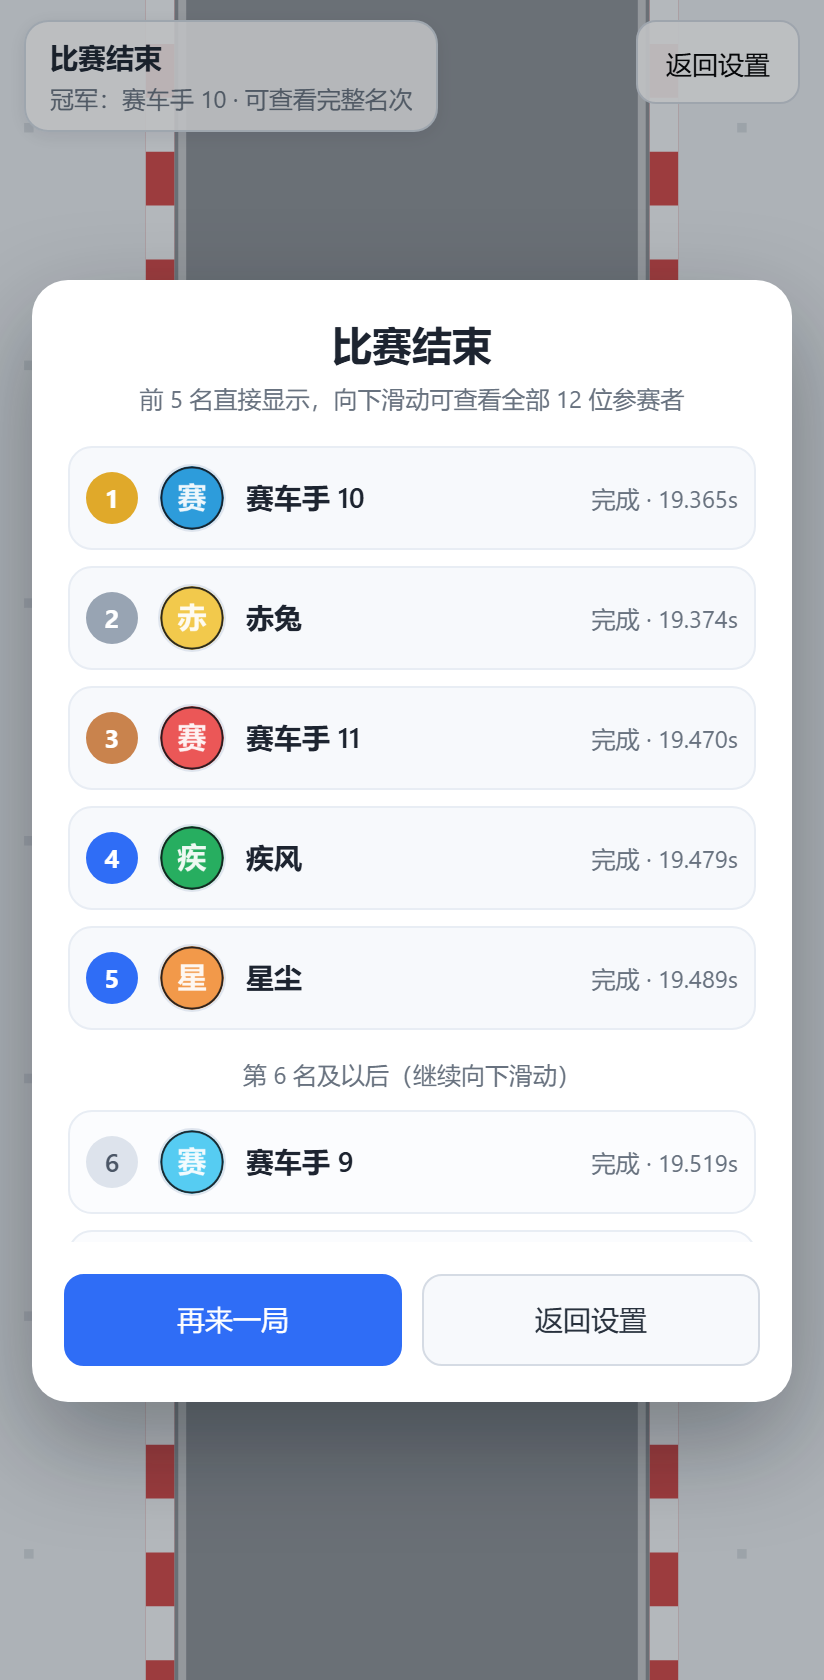
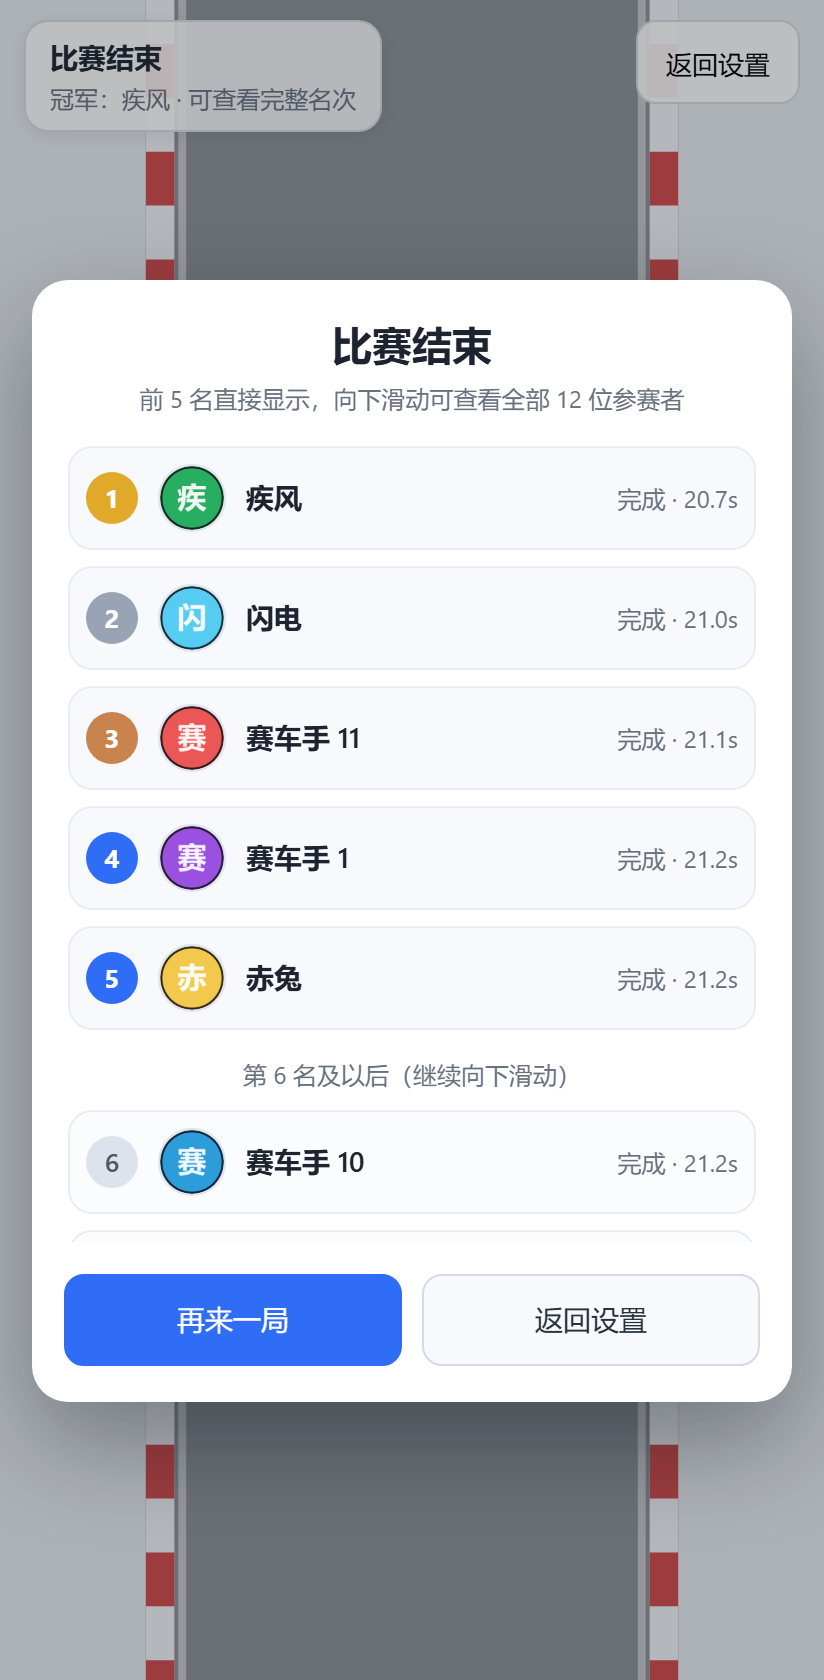
Revert "车辆可互相穿过；被挡满2秒立即爆发脱困；终点时间毫秒且不重复"
This reverts commit fce10f5bf99395bc490dfa45463b205233f04bc3.

diff --git a/index.html b/index.html
@@ -578,7 +578,7 @@ function rankCars(cars){
   });
 }
 function createCars(track, rnd){
-  var baseSpeed = track.raceLen / 21.5;
+  var baseSpeed = track.raceLen / 18.2;
   var cars = participants.map(function(p){
     return {
       p: p, s: 0, v: 0, lateral: 0, yaw: 0, progress: 0,
@@ -590,21 +590,13 @@ function createCars(track, rnd){
       paceSeed: rnd() * TAU,
       paceSeed2: rnd() * TAU,
       paceSeed3: rnd() * TAU,
-      draft: 0, gone: false, stuck: false, stuckTimer: 0, breakoutTimer: 0,
+      draft: 0, blocked: 0, follow: 1, gone: false, clear: true,
       rank: 1, surgeTimer: 0, surgeCooldown: 1 + rnd()*4, surgePower: 0,
-      finishBias: 0,                         // 终点段偏置，下面按洗牌结果分配
+      finishBias: (rnd()*2-1) * 0.015,      // 终点段 ±1.5% 微偏置，避免完全同时冲线
       lane: 0, baseLane: 0
     };
   });
   var n = cars.length;
-  // 终点段偏置：把 [-1.5%, +1.5%] 均分成 n 份随机分配，每辆车的值互不相同，
-  // 因此最后 4200 单位里各车到线时刻天然错开（不会同一毫秒冲线），且每局重新洗牌保证公平。
-  var slots = [];
-  for (var s0=0;s0<n;s0++) slots.push(s0);
-  for (var s1=n-1;s1>0;s1--){ var s2 = Math.floor(rnd()*(s1+1)); var tmp = slots[s1]; slots[s1] = slots[s2]; slots[s2] = tmp; }
-  for (var s3=0;s3<n;s3++){
-    cars[s3].finishBias = ((slots[s3]/(n>1?(n-1):1)) - 0.5) * 0.06;
-  }
   var gridSpan = 2*(HALF_W - 20);
   var lanes = Math.max(1, Math.floor((2*(LANE_MAX - 4)) / 52) + 1);
   for (var i=0;i<n;i++){
@@ -632,7 +624,7 @@ function updateCar(c, dt, t, raceLen){
     var gap = Math.max(0, (race.leaderS || c.s) - c.s);
     // 位置系数：第 1 名最慢（0.90），越靠后越快（最后一名 1.18）
     var rf = total > 1 ? clamp((rank - 1) / (total - 1), 0, 1) : 0;
-    var posFactor = 0.94 + 0.20 * Math.pow(rf, 0.8);
+    var posFactor = 0.90 + 0.28 * Math.pow(rf, 0.8);
     // 真的掉队（落后领先者 400 单位以上）再额外给一点追赶增益
     var gapBoost = clamp((gap - 400) / 900, 0, 1) * 0.12;
     // 随机冲刺：只有掉出前 3 名才会触发，重新回到前 3 就暂停
@@ -646,19 +638,11 @@ function updateCar(c, dt, t, raceLen){
       c.surgeCooldown = 2.0 + Math.random()*4.5;
     }
     var surge = (c.surgeTimer > 0 && rank > 3) ? c.surgePower : 0;
-    var rb = posFactor + gapBoost + surge;
-    var finishRamp = clamp((c.s - (raceLen - 5000)) / 5000, 0, 1);   // 最后 5000 单位逐渐取消橡皮筋
-    if (finishRamp > 0) rb = lerp(rb, 1 + c.finishBias, finishRamp);
-    // 被前车挡住（车身重叠）累计超过 2 秒 → 落后的这辆立刻爆发，冲上去
-    if (c.stuck) c.stuckTimer += dt;
-    else c.stuckTimer = Math.max(0, c.stuckTimer - dt * 3);
-    if (c.stuckTimer >= 2 && c.breakoutTimer <= 0){ c.breakoutTimer = 1.8; c.stuckTimer = 0; }
-    if (c.breakoutTimer > 0) c.breakoutTimer -= dt;
-    c.breakingOut = c.breakoutTimer > 0;
-    var breakout = c.breakingOut ? 0.45 * (c.breakoutTimer / 1.8) : 0;   // 立刻 +45%，1.8 秒内衰减
-    var catchup = clamp(rb + breakout, 0.80, 1.65);
+    var catchup = clamp(posFactor + gapBoost + surge, 0.80, 1.32);
+    var finishRamp = clamp((c.s - (raceLen - 4200)) / 4200, 0, 1);   // 最后 4200 单位逐渐取消加速/减速
+    if (finishRamp > 0) catchup = lerp(catchup, 1 + c.finishBias, finishRamp);
     c.catchup = catchup;
-    targetV = c.baseSpeed * pace * (1 + c.draft) * catchup;
+    targetV = c.baseSpeed * pace * (1 + c.draft) * c.follow * (1 - 0.22 * c.blocked) * catchup;
   }
   if (targetV > 0) c.v += (targetV - c.v) * (1 - Math.exp(-c.accel*dt));
   else c.v = 0;
@@ -682,10 +666,10 @@ function updateCar(c, dt, t, raceLen){
 }
 function interact(cars, dt){
   var n = cars.length;
-  for (var q=0;q<n;q++){ cars[q].draft = 0; cars[q].stuck = false; }
-  if (n > 120) return;                    // 车特别多时不做逐对处理
-  var RANGE = 110;
-  var SIDE = 46;                          // 车身宽 46：横向差小于 46 即视为车身重叠
+  for (var q=0;q<n;q++){ cars[q].draft = 0; cars[q].blocked = 0; cars[q].follow = 1; cars[q].clear = true; }
+  if (n > 120) return;                    // 车特别多时不再做逐对处理（此时允许重叠）
+  var GAP = 52;                           // 车身宽 46：横向拉开到 52 以上才算不重叠
+  var RANGE = 130;                        // 纵向关注范围
   for (var i=0;i<n;i++){
     var a = cars[i]; if (a.broken || a.gone) continue;
     for (var j=i+1;j<n;j++){
@@ -693,17 +677,38 @@ function interact(cars, dt){
       var ds = a.s - b.s;
       var ads = ds < 0 ? -ds : ds;
       if (ads > RANGE) continue;
+      a.clear = false; b.clear = false;
       var ahead  = ds > 0 ? a : b;
       var behind = ds > 0 ? b : a;
       var dl = a.lateral - b.lateral;
       var adl = dl < 0 ? -dl : dl;
-      if (adl < 62){ behind.draft += 0.09; ahead.draft -= 0.04; }   // 尾流 / 乱流
-      // 车身重叠（纵向一车身内、横向一车身内）且自己在后面 → 计入"被挡住"时间
-      if (ads < 80 && adl < SIDE) behind.stuck = true;
-      // 不做任何横向阻挡：车与车可以互相穿过，只在被挡满 2 秒后触发冲刺（见 updateCar）
+      if (ads < 120){
+        // 尾流只在斜后方有效（含一点点"抽头"窗口），正后方是乱流 —— 逼出"拉开-抽头-超越"
+        if (adl >= 26 && adl < 62) behind.draft += 0.09;
+        else if (adl < 26) behind.draft -= 0.03;
+        ahead.draft -= 0.04;
+      }
+      if (adl < 32){                       // 同车道跟车：车距小于一个车身长度就不能再快
+        var cap = clamp((ads - 52) / 42, 0, 1);
+        behind.follow = Math.min(behind.follow, cap);
+      }
+      if (adl < GAP){                                                   // 横向推开，直到不再重叠
+        var dir = dl >= 0 ? 1 : -1;
+        if (adl < 0.01) dir = (i % 2 === 0) ? 1 : -1;
+        var push = (GAP - adl) * 2.4 * dt * dir * 0.5;
+        a.lateral = clamp(a.lateral + push, -LANE_MAX, LANE_MAX);
+        b.lateral = clamp(b.lateral - push, -LANE_MAX, LANE_MAX);
+        // 关键：巡航线位跟着一起挪，否则"回到原车道"的阻尼会把两车又拉回重叠位置
+        a.lane = clamp(a.lane + push*0.7, -LANE_MAX, LANE_MAX);
+        b.lane = clamp(b.lane - push*0.7, -LANE_MAX, LANE_MAX);
+      }
     }
   }
-  for (var z=0;z<n;z++) cars[z].draft = clamp(cars[z].draft, -0.09, 0.13);
+  for (var z=0;z<n;z++){
+    cars[z].draft = clamp(cars[z].draft, -0.09, 0.13);
+    cars[z].blocked = clamp(cars[z].blocked, 0, 1);
+    cars[z].follow = clamp(cars[z].follow, 0.45, 1);
+  }
 }
 function updateCamera(dt){
   var racing = (race.phase === 'racing' || race.phase === 'countdown' || race.phase === 'setup');
@@ -1104,7 +1109,6 @@ function showCountdownText(v){
 function showResults(){
   var list = race.results || [];
   boardEl.innerHTML = '';
-  var prevMs = -1;                      // 显示层单调化：真实成绩若落在同一毫秒，按名次顺延 1ms
   for (var i=0;i<list.length;i++){
     if (i === 5){
       var sep = document.createElement('div');
@@ -1119,14 +1123,7 @@ function showResults(){
     var img = document.createElement('img'); img.alt = ''; img.src = c.avatar || '';
     var nm = document.createElement('span'); nm.className = 'nm'; nm.textContent = c.name;
     var stt = document.createElement('span'); stt.className = 'st';
-    if (c.finished){
-      var ms = Math.round(c.finishTime * 1000);
-      if (ms <= prevMs) ms = prevMs + 1;
-      prevMs = ms;
-      stt.textContent = '完成 · ' + (ms/1000).toFixed(3) + 's';
-    } else {
-      stt.textContent = '进度 ' + Math.round(c.progress*100) + '%';
-    }
+    stt.textContent = c.finished ? ('完成 · ' + fmtTime(c.finishTime)) : ('进度 ' + Math.round(c.progress*100) + '%');
     row.appendChild(rank); row.appendChild(img); row.appendChild(nm); row.appendChild(stt);
     boardEl.appendChild(row);
   }

diff --git a/qa_ms.js b/qa_ms.js
@@ -15,7 +15,7 @@ function P(l,v){ console.log(l + ' ' + JSON.stringify(v)); }
     let ok = false;
     for (let i=0;i<80;i++){
       const s = await page.evaluate(function(){ return window.__avatarRace.race.phase; });
-      if (s === 'results'){ ok = true; break; }
+      if (s === 'results' || s === 'ending'){ ok = true; break; }
       await page.waitForTimeout(500);
     }
     const res = await page.evaluate(function(){
